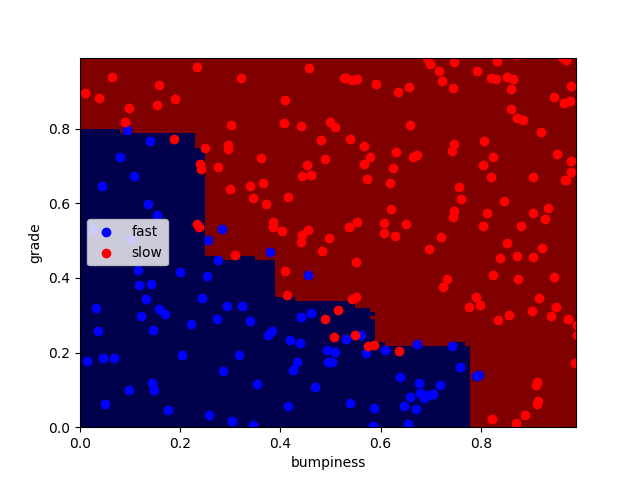
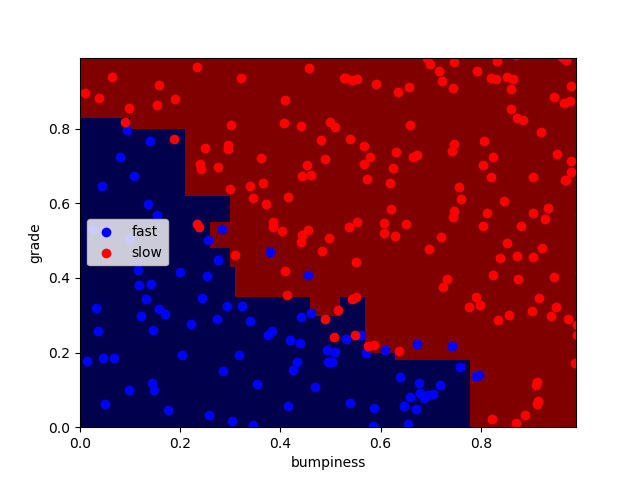
Add AdaBoost Classifier with DecisionTree, got accuracy > 93.6% ... sometimes

Changed region(s): [[0.125, 0.2188, 0.4375, 0.625], [0.4688, 0.625, 0.75, 0.75]]

diff --git a/choose_your_own/your_algorithm.py b/choose_your_own/your_algorithm.py
@@ -42,18 +42,30 @@ macc = 0
 samp_split = 17
 n_est = 2
 clf = RandomForestClassifier(	max_features=maxfeat, min_samples_split=samp_split,
-			criterion='entropy')
+			criterion='gini')
 t = time()
 clf.fit(features_train,labels_train)
 #print 'The trainign time is ', round(time()-t,2), 'seconds'
 pred = clf.predict(features_test)
 acc = accuracy_score(labels_test,pred)
 print 'n_est = ',n_est, 'min_samples_split=',samp_split,'max_features=',maxfeat
-print 'The accuracy is', round(acc*100,2), '%'
-# if acc > macc:
-	# macc = acc
-	# sav = [acc,n_est,samp_split, maxfeat]
-# print macc, sav
+print 'The Random Forest accuracy is', round(acc*100,2), '%'
+
+from sklearn.ensemble import AdaBoostClassifier
+from sklearn.tree import DecisionTreeClassifier
+from sklearn.svm import SVC
+lr = 0.5
+nest = 13
+for md in range(1,10,1):
+	clf = AdaBoostClassifier(DecisionTreeClassifier(criterion='entropy',splitter='random',max_depth=4),n_estimators=nest,learning_rate=lr,algorithm='SAMME')
+	t = time()
+	clf.fit(features_train,labels_train)
+	print 'The trainign time is ', round(time()-t,2), 'seconds'
+	pred = clf.predict(features_test)
+	acc = accuracy_score(labels_test,pred)
+	print 'The AdaBoost accuracy is', round(acc*100,2), '%', 'for max_depth=', md
+
+
 try:
     prettyPicture(clf, features_test, labels_test)
 except NameError:
